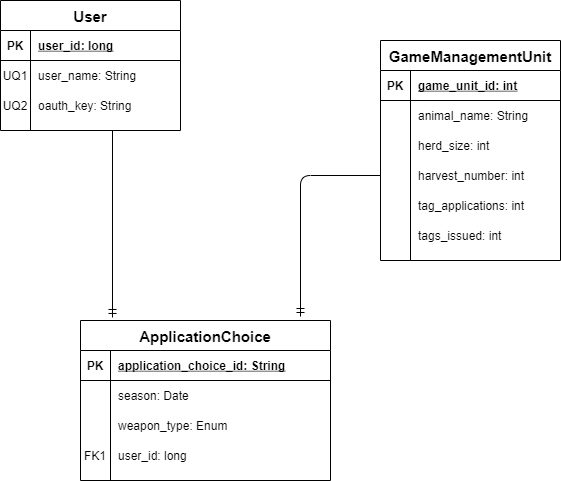
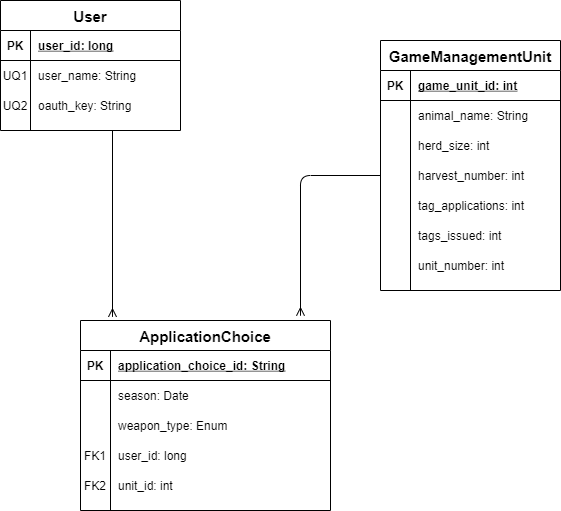
Implemented foreign keys, rearranged ERD. Still requires @Transaction and @Query annotations.

diff --git a/app/src/main/java/edu/cnm/deepdive/toptag/model/entity/ApplicationChoice.java b/app/src/main/java/edu/cnm/deepdive/toptag/model/entity/ApplicationChoice.java
@@ -1,31 +1,47 @@
 package edu.cnm.deepdive.toptag.model.entity;
 
-import androidx.annotation.InspectableProperty.EnumEntry;
 import androidx.room.ColumnInfo;
+import androidx.room.Entity;
+import androidx.room.ForeignKey;
 import androidx.room.PrimaryKey;
-import com.google.gson.annotations.Expose;
 import java.util.Date;
 
+@Entity(
+    indices = {},
+    foreignKeys = {
+        @ForeignKey(
+            entity = User.class,
+            childColumns = {"user_id"},
+            parentColumns = {"user_id"},
+            onDelete = ForeignKey.CASCADE
+        ),
+        @ForeignKey(
+            entity = GameManagementUnit.class,
+            childColumns = {"game_management_unit_id"},
+            parentColumns = {"game_management_unit_id"},
+            onDelete = ForeignKey.CASCADE
+        )
+    }
+)
 public class ApplicationChoice {
 
   @PrimaryKey
-  @ColumnInfo(name = "application_choice")
-  private String applicationChoice;
+  @ColumnInfo(name = "application_choice_id")
+  private String id;
 
-  @Expose
-  private Date season;
+  private Date season;    /* TODO find better way to classify seas than date.*/
 
-  @Expose
   @ColumnInfo(name = "user_id")
-  private long userId;                                // TODO Ask about enum field.
+  private long userId;
 
+  private WeaponType weaponType;
 
-  public String getApplicationChoice() {
-    return applicationChoice;
+  public String getId() {
+    return id;
   }
 
-  public void setApplicationChoice(String applicationChoice) {
-    this.applicationChoice = applicationChoice;
+  public void setId(String id) {
+    this.id = id;
   }
 
   public Date getSeason() {
@@ -44,6 +60,8 @@ public class ApplicationChoice {
     this.userId = userId;
   }
 
-  @EnumEntry(name = "weapon_type", value = 0)
-  private enum weaponType {}
+  private enum WeaponType {
+    BOW, RIFLE
+  }
+
 }

diff --git a/app/src/main/java/edu/cnm/deepdive/toptag/model/entity/GameManagementUnit.java b/app/src/main/java/edu/cnm/deepdive/toptag/model/entity/GameManagementUnit.java
@@ -2,40 +2,45 @@ package edu.cnm.deepdive.toptag.model.entity;
 
 import androidx.room.ColumnInfo;
 import androidx.room.PrimaryKey;
-import com.google.gson.annotations.Expose;
 
 public class GameManagementUnit {
 
-  @PrimaryKey
-  @ColumnInfo(name = "game_management_unit")
-  private int gameManagementUnit;
+  @PrimaryKey(autoGenerate = true)
+  @ColumnInfo(name = "game_management_unit_id")
+  private long id;
 
-  @Expose
+  @ColumnInfo(name = "unit_number", index = true)
+  private int unitNumber;
+
   @ColumnInfo(name = "animal_name")
   private String animalName;
 
-  @Expose
   @ColumnInfo(name = "herd_size")
   private int herdSize;
 
-  @Expose
   @ColumnInfo(name = "harvest_number")
   private int harvestNumber;
 
-  @Expose
   @ColumnInfo(name = "tag_applications")
   private int tagApplications;
 
-  @Expose
   @ColumnInfo(name = "tags_issued")
   private int tagsIssued;
 
-  public int getGameManagementUnit() {
-    return gameManagementUnit;
+  public long getId() {
+    return id;
   }
 
-  public void setGameManagementUnit(int gameManagementUnit) {
-    this.gameManagementUnit = gameManagementUnit;
+  public void setId(long id) {
+    this.id = id;
+  }
+
+  public int getUnitNumber() {
+    return unitNumber;
+  }
+
+  public void setUnitNumber(int unitNumber) {
+    this.unitNumber = unitNumber;
   }
 
   public String getAnimalName() {

diff --git a/app/src/main/java/edu/cnm/deepdive/toptag/model/entity/User.java b/app/src/main/java/edu/cnm/deepdive/toptag/model/entity/User.java
@@ -9,8 +9,10 @@ import com.google.gson.annotations.Expose;
 
 @Entity(
     indices = {
-        @Index(value = {"user_id", "user_name"}, unique = true)
+        @Index(value = {"user_name", "oauth_key"}, unique = true)
+
     }
+
 )
 public class User {
 
@@ -18,13 +20,11 @@ public class User {
   @ColumnInfo(name = "user_id")
   private long id;
 
-  @Expose
   @ColumnInfo(name = "user_name")
   @NonNull
   private String userName;
 
-  @Expose
-  @ColumnInfo
+  @ColumnInfo(name = "oauth_key")
   private String oauthKey;
 
 
@@ -52,4 +52,7 @@ public class User {
   public void setOauthKey(String oauthKey) {
     this.oauthKey = oauthKey;
   }
+
+//  @Transaction
+//  @Query("SELECT * FROM ")
 }

diff --git a/app/src/main/java/edu/cnm/deepdive/toptag/model/dao/ApplicationChoiceDao.java b/app/src/main/java/edu/cnm/deepdive/toptag/model/dao/ApplicationChoiceDao.java
@@ -40,4 +40,6 @@ public interface ApplicationChoiceDao {
   Single<Integer> delete(Collection<? extends ApplicationChoice> applicationChoices);
 
 
+
+
 }
